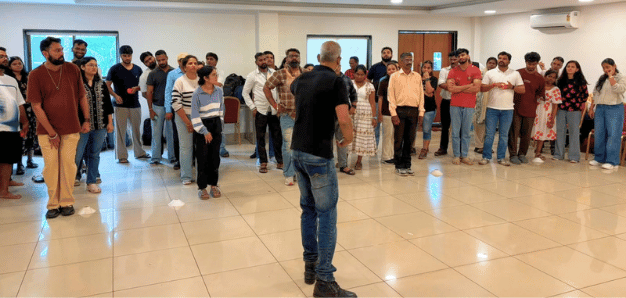
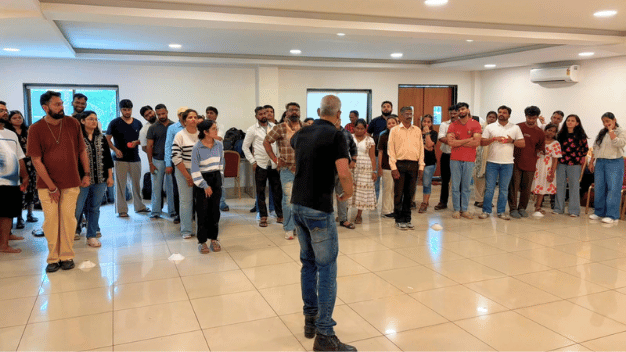
Show the Editorial hero photo sharp and whole, beside the headline
The hero stretched the 626px Canva cover across the full screen width
behind the title: at 1920px that is a 3x upscale, so it blurred, and
background-size: cover cut people's heads off at the top. The cover
crop itself (y 142-440) had also trimmed the photo too close.

The hero is now the headline on plum with the cover as a real <img>
beside it, capped at 560px so it is never enlarged; on a phone it
stacks under the headline. cover.png is re-cut to drop only the Canva
title band (y 88-440), keeping the whole photo. No new content.

CLAUDE.md now says how to cut a cover and not to stretch one.

diff --git a/assets/blog-editorial.css b/assets/blog-editorial.css
@@ -5,7 +5,8 @@
    tools/build-post.js adds this sheet and body.layout-editorial to those
    pages and nothing else, so the standard Rich Article layout is untouched.
 
-   The look: a full-photo hero, one centred reading column with no share
+   The look: a plum hero with the cover photo beside the headline, one
+   centred reading column with no share
    rail or contents sidebar, an italic lead paragraph, and five body blocks
    the post's HTML opts into by class:
 
@@ -24,22 +25,30 @@
    !important too and win on specificity.
    ========================================================================== */
 
-/* ---------- hero: the photo itself, darkened, not the blurred wash ---------- */
+/* ---------- hero: headline on plum, the cover photo beside it ----------
+   build-post.js puts the cover in as img.ed-hero-photo. It is never wider
+   than the file (626px), so it is shown sharp and uncropped; stretching it
+   behind a full-width hero blurred it and cut off people's heads. */
 .layout-editorial .article-hero {
-    min-height: 600px;
     display: flex;
-    align-items: flex-end;
-    background: #2a0a22;
+    align-items: center;
+    justify-content: center;
+    gap: 48px;
+    background: #5c1349;
     animation: none;
-    padding: calc(var(--nav-h) + 40px) 48px 64px;
+    padding: calc(var(--nav-h) + 56px) 48px 64px;
 }
-.layout-editorial .article-hero::before {
-    inset: 0;
-    filter: none;
-    opacity: .42;
-}
+.layout-editorial .article-hero::before,
 .layout-editorial .article-hero::after { display: none; }
-.layout-editorial .hero-inner { max-width: 980px; width: 100%; }
+.layout-editorial .hero-inner { flex: 1 1 0; max-width: 600px; margin: 0; }
+.layout-editorial .ed-hero-photo {
+    flex: 0 1 560px;
+    min-width: 0;
+    max-width: 560px;
+    height: auto;
+    border-radius: 6px;
+    display: block;
+}
 .layout-editorial .crumbs {
     font-size: 13px;
     letter-spacing: .12em;
@@ -50,7 +59,7 @@
 .layout-editorial .article-tag,
 .layout-editorial .hero-rule { display: none; }
 .layout-editorial .article-hero h1 {
-    font-size: clamp(2.1rem, 4.8vw, 3.75rem);
+    font-size: clamp(2.1rem, 3.6vw, 3.1rem);
     line-height: 1.08;
     margin: 0 0 22px;
 }
@@ -269,9 +278,13 @@
 /* ---------- phone ---------- */
 @media (max-width: 820px) {
     .layout-editorial .article-hero {
-        min-height: 520px;
+        flex-direction: column;
+        align-items: stretch;
+        gap: 28px;
         padding: calc(var(--nav-h) + 28px) 20px 44px;
     }
+    .layout-editorial .hero-inner { max-width: none; }
+    .layout-editorial .ed-hero-photo { flex: none; width: 100%; max-width: 626px; }
     .layout-editorial .article-hero h1 { font-size: 2.1rem; }
     .layout-editorial .post-layout { padding: 48px 20px 10px; }
     .layout-editorial .article-body { font-size: 17px; }

diff --git a/tools/build-post.js b/tools/build-post.js
@@ -632,6 +632,21 @@ function buildPage(template, post, slug, allPosts) {
                 `Known: standard, ${Object.keys(LAYOUT_SHEETS).join(', ')}.`);
         }
         out = sub(out, '<body>', `<body class="layout-${layout}">`, 'body tag');
+
+        /* Editorial shows the cover as a photo beside the headline, not as
+           the blurred full-width wash. The Canva covers are 626px wide, so
+           stretched across a desktop hero they blur and lose the top and
+           bottom of the frame (heads included); as an <img> capped at its
+           own width they stay sharp and whole. */
+        if (layout === 'editorial' && cover) {
+            const size = imageSize(cover);
+            const dims = size ? ` width="${size.w}" height="${size.h}"` : '';
+            out = sub(out,
+                /(<header class="article-hero" id="articleHero"[^>]*>[\s\S]*?)(\n\s*<\/header>)/,
+                `$1\n            <img class="ed-hero-photo" src="${escapeHtml(cover)}" alt="${escapeHtml(title)}"${dims} fetchpriority="high">$2`,
+                'article hero close'
+            );
+        }
         out = sub(out, '</head>', `    <link rel="stylesheet" href="${sheet}">\n</head>`, 'end of head');
     }
 

diff --git a/return-to-office-engagement-ideas/index.html b/return-to-office-engagement-ideas/index.html
@@ -862,6 +862,7 @@
                     </div>
                 </div>
             </div>
+            <img class="ed-hero-photo" src="/images/blog/return-to-office-engagement-ideas/cover.png" alt="Back in the Office, but Where’s The Energy?? 5 Ways To Make Your Team Want To Come In!!" width="626" height="352" fetchpriority="high">
         </header>
 
         <div class="post-layout">

diff --git a/CLAUDE.md b/CLAUDE.md
@@ -19,7 +19,7 @@ Static site on GitHub Pages (wooshbiz.com, `CNAME`). Pushing `main` publishes it
 | Template | `layout` value | What it looks like | First used |
 |---|---|---|---|
 | Rich Article (standard) | `standard` | Plum hero with blurred cover wash, share rail, sticky contents sidebar, drop cap | most posts |
-| Editorial Magazine | `editorial` | Full-photo hero, one centred column, italic lead, big stat, numbered idea cards on a tinted full-width band, pull quote, "No…" points in a row, plum closing band with orange button | post 49, `/return-to-office-engagement-ideas/` |
+| Editorial Magazine | `editorial` | Plum hero with the cover photo beside the headline (shown at its real size, never stretched), one centred column, italic lead, big stat, numbered idea cards on a tinted full-width band, pull quote, "No…" points in a row, plum closing band with orange button | post 49, `/return-to-office-engagement-ideas/` |
 
 Editorial is `assets/blog-editorial.css`; its header comment lists the body blocks
 (`ed-lead`, `ed-stat`, `ed-band`, `ed-cards`, `ed-quote`, `ed-nos`, `ed-cta`, `ed-btn`).
@@ -30,7 +30,9 @@ The flow:
 
 1. The brief is a public Google Doc: fetch `…/document/d/<id>/export?format=txt`. Images come as
    a local folder of 626x440 Canva PNGs. Check the images' baked-in titles match the text.
-2. Copy images to `images/blog/<slug>/`; `cover.png` = 626x298 crop (y 142–440) of the hero.
+2. Copy images to `images/blog/<slug>/`; `cover.png` = the hero image with only the Canva
+   title band cut off (find where the photo starts; keep every head in frame). Never stretch a
+   626px image across a full-width area: it blurs.
 3. Write the row to `wooshbiz_blogs` (Supabase project `ytthcgdsbfagvwcopoaj`) through the REST
    API with the anon key from `blog.html`, as `admin.html` does. The Supabase MCP connector
    cannot see this project. Fields: title, slug, category, author (`Andrea Costabir`),
